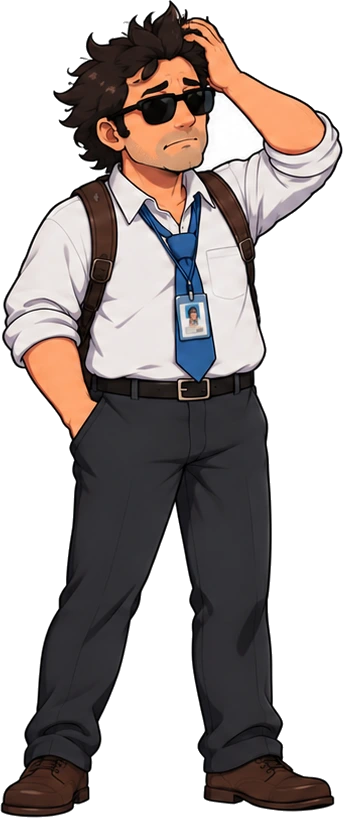
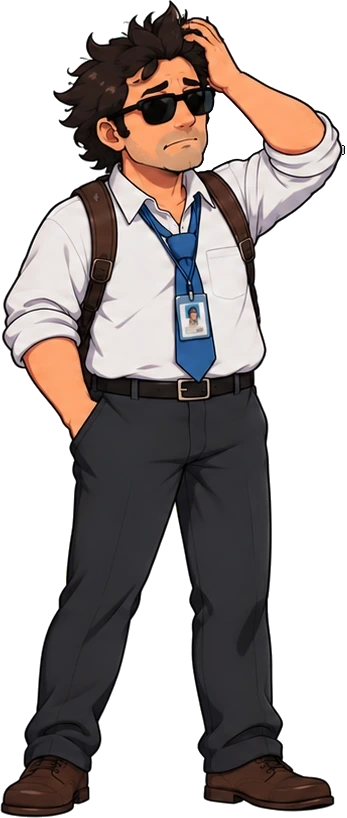
Jefe (rascándose): fuera el fondo blanco bajo el brazo y codo cerrado; volumen del ambiente ajustable (por defecto a la mitad); acotación propia por personaje; v3 con estabilidad 0/0,5/1; Vanesa «exasperated»
Claude-Session: https://claude.ai/code/session_01JMuA9ngbhrTgayxwJt3uwf

diff --git a/src/lib/voice/elevenlabs.ts b/src/lib/voice/elevenlabs.ts
@@ -118,7 +118,7 @@ export async function generateElevenDialogue(
     const inputs = group.map((l) => {
       const c = cast?.[l.characterId];
       if (!c) throw new Error(`Falta la voz ElevenLabs de «${l.characterId}» en el reparto.`);
-      return { text: l.text.trim(), voiceId: c.voiceId };
+      return { text: withTag(l.text.trim(), c), voiceId: c.voiceId };
     });
     const stab = group.reduce((s, l) => s + (cast?.[l.characterId]?.stability ?? 0.5), 0) / group.length;
     const stability = stab < 0.34 ? 0 : stab < 0.67 ? 0.5 : 1; // v3: creativo / natural / robusto
@@ -187,6 +187,13 @@ export function shiftPitch(p: { samples: Float32Array; sampleRate: number }, k: 
   return { samples: out, sampleRate: p.sampleRate };
 }
 
+/** Aplica la acotación propia del personaje (si la tiene) en lugar de la automática del principio de la frase. */
+export function withTag(text: string, c?: { tag?: string }): string {
+  const t = c?.tag?.trim().replace(/[[\]]/g, "");
+  if (!t) return text;
+  return `[${t}] ${text.replace(/^\s*\[[^\]]*\]\s*/, "")}`;
+}
+
 function toClip(p: { samples: Float32Array; sampleRate: number }): Clip {
   const samples = masterVoice(p.samples, p.sampleRate);
   return { samples, sampleRate: p.sampleRate, env: envelope(samples, p.sampleRate), duration: samples.length / p.sampleRate };
@@ -213,7 +220,7 @@ export async function generateElevenLines(
     const model = c.model ?? (globalModel === "dialogue_v3" ? "eleven_v3" : globalModel);
     const ctx: { previousText?: string; nextText?: string } =
       model === "eleven_v3" ? {} : { previousText: prevL ? stripAudioTags(prevL).slice(0, 400) : undefined, nextText: nextL ? stripAudioTags(nextL).slice(0, 400) : undefined };
-    const text = model === "eleven_v3" ? l.text.trim() : stripAudioTags(l.text);
+    const text = model === "eleven_v3" ? withTag(l.text.trim(), c) : stripAudioTags(l.text);
     const speed = Math.min(1.2, Math.max(0.7, c.speed * (l.rate ?? 1)));
     const ck = `el3|${model}|${c.voiceId}|${c.stability}|${c.similarity}|${c.style}|${speed.toFixed(2)}|${text}|${ctx.previousText ?? ""}|${ctx.nextText ?? ""}`;
     let hit = await clipCache.get(ck).catch(() => undefined);

diff --git a/src/components/screens/PreviewScreen.tsx b/src/components/screens/PreviewScreen.tsx
@@ -1,5 +1,6 @@
 "use client";
 
+import { ambientVolume } from "@/lib/sfx/player";
 import { useEffect, useMemo, useState } from "react";
 import { evaluateTake, projectSchedule } from "@/lib/timeline/evaluate";
 import { ttsSupported } from "@/lib/tts";
@@ -17,7 +18,7 @@ import { Stage } from "../Stage";
 import { usePlayer, type VoiceEngine } from "../usePlayer";
 import type { PocketState } from "../usePocket";
 import { VoiceCast } from "../VoiceCast";
-import { Card, IssueList } from "../ui";
+import { Card, Field, IssueList } from "../ui";
 
 const fmt = (t: number) => `${Math.floor(t / 60)}:${(t % 60).toFixed(1).padStart(4, "0")}`;
 const ENGINE_KEY = "pocket:voiceEngine";
@@ -304,6 +305,7 @@ export function PreviewScreen({ s }: { s: PocketState }) {
       {engine === "piper" && <VoiceCast s={s} />}
       {engine === "elevenlabs" && <ElevenCast s={s} model={model} onModel={setModel} code={code} onCode={setCode} lines={lines} />}
       {engine === "elevenlabs" && code && <VoiceCasting s={s} code={code} />}
+      <AmbientVolume />
       <Card title="Configuración de voces de esta escena">
         <p className="fine">Copia la configuración tal y como suena ahora (voces, ajustes de cada personaje, motor y modelo) para pasársela a Claude o pegarla en otro dispositivo.</p>
         <div className="row">
@@ -315,5 +317,17 @@ export function PreviewScreen({ s }: { s: PocketState }) {
         ✎ Editar este sketch
       </button>
     </div>
+  );
+}
+
+/** Volumen del ruido de fondo (oficina, recepción…), guardado en este dispositivo. */
+function AmbientVolume() {
+  const [v, setV] = useState(() => ambientVolume.get());
+  return (
+    <Card title="Ruido de fondo">
+      <Field label={`Volumen del ambiente: ${Math.round(v * 100)} %`} hint="0 % = sin ambiente. Se aplica al reproducir y al exportar el vídeo.">
+        <input type="range" min={0} max={1.5} step={0.05} value={v} onChange={(e) => { const x = Number(e.target.value); setV(x); ambientVolume.set(x); }} />
+      </Field>
+    </Card>
   );
 }

diff --git a/src/components/ElevenCast.tsx b/src/components/ElevenCast.tsx
@@ -157,7 +157,7 @@ export function ElevenCast({ s, model, onModel, code, onCode, lines = [] }: Prop
               {c && model === "dialogue_v3" && <p className="fine">⚠ En modo conversación ElevenLabs solo usa la voz y la estabilidad: el estilo, el parecido, la velocidad y el modelo de cada personaje se ignoran. Para que se respeten, elige «frase a frase» arriba.</p>}
               {c && (
                 <div className="grid2">
-                  <Field label="Estabilidad" hint="baja = más expresiva">
+                  <Field label="Estabilidad" hint="En v3 solo cuenta 0 (creativa, la más exagerada), 0,5 (natural) o 1 (estable).">
                     <Stepper value={c.stability} step={0.05} min={0} max={1} onChange={(x) => set(cid, { stability: x })} />
                   </Field>
                   <Field label="Estilo / exageración">
@@ -180,6 +180,11 @@ export function ElevenCast({ s, model, onModel, code, onCode, lines = [] }: Prop
                     </select>
                   </Field>
                 </div>
+              )}
+              {c && (
+                <Field label="Acotación (solo v3)" hint="Cómo dice TODAS sus frases, en inglés: furious, exasperated, sarcastic, whispering, shouting, overly dramatic… Vacío = la automática.">
+                  <input value={c.tag ?? ""} maxLength={60} placeholder="automática" onChange={(e) => set(cid, { tag: e.target.value || undefined })} />
+                </Field>
               )}
               {c && <TryLine cid={cid} entry={c} model={model} code={code} lines={lines.filter((l) => l.characterId === cid)} />}
             </div>

diff --git a/src/lib/sfx/player.ts b/src/lib/sfx/player.ts
@@ -6,6 +6,27 @@ import { envelope, normalizeLevel } from "@/lib/voice/dsp";
 import { audioContext, playClip, type Clip } from "@/lib/voice/piper";
 import { SR, synthSamples } from "./synth";
 
+/** Volumen del ambiente de fondo (bucles «sfx_ambiente_*»), ajustable en Ver; 1 = el del guion. */
+const AMB_KEY = "pocket:ambientVolume";
+export const ambientVolume = {
+  get(): number {
+    try {
+      const v = Number(localStorage.getItem(AMB_KEY));
+      return Number.isFinite(v) && localStorage.getItem(AMB_KEY) !== null ? Math.min(2, Math.max(0, v)) : 0.5;
+    } catch {
+      return 0.5;
+    }
+  },
+  set(v: number) {
+    try {
+      localStorage.setItem(AMB_KEY, String(v));
+    } catch {
+      /* sin almacenamiento */
+    }
+  },
+};
+export const mixVolume = (soundId: string, volume = 1) => (soundId.startsWith("sfx_ambiente") ? volume * ambientVolume.get() : volume);
+
 const cache = new Map<string, Promise<Clip | null>>();
 
 async function load(src: string): Promise<Clip | null> {

diff --git a/src/lib/server/elevenlabs.ts b/src/lib/server/elevenlabs.ts
@@ -144,7 +144,8 @@ export async function handleTts(body: unknown, ip: string, code: string | null, 
         language_code: model === "eleven_v3" ? undefined : "es",
         previous_text: model === "eleven_v3" ? undefined : previousText,
         next_text: model === "eleven_v3" ? undefined : nextText,
-        voice_settings: { stability: settings.stability, similarity_boost: settings.similarity, style: settings.style, use_speaker_boost: true, speed: settings.speed },
+        // v3 solo admite 0 (creativa), 0,5 (natural) y 1 (robusta)
+        voice_settings: { stability: model === "eleven_v3" ? (settings.stability < 0.25 ? 0 : settings.stability < 0.75 ? 0.5 : 1) : settings.stability, similarity_boost: settings.similarity, style: settings.style, use_speaker_boost: true, speed: settings.speed },
         // semilla fija por frase: la misma frase suena igual en cualquier dispositivo
         seed: seedOf(`${voiceId}|${model}|${text}`),
       }),

diff --git a/src/components/usePlayer.ts b/src/components/usePlayer.ts
@@ -10,7 +10,7 @@ import { speak, stopSpeaking } from "@/lib/tts";
 import { levelAt } from "@/lib/voice/dsp";
 import { clipKey } from "@/lib/voice/fit";
 import { playClip, stopAllClips, type Clip } from "@/lib/voice/piper";
-import { playSound, preloadSounds } from "@/lib/sfx/player";
+import { mixVolume, playSound, preloadSounds } from "@/lib/sfx/player";
 import { preloadProject } from "@/lib/renderer/preload";
 
 export type VoiceEngine = "elevenlabs" | "piper" | "browser" | "off";
@@ -56,7 +56,7 @@ export function usePlayer(project: PocketProject, catalog: Catalog, opts: { engi
         });
       },
       onSfx: (e) => {
-        void playSound(catalogRef.current, e.soundId, e.volume ?? 1, e.duration);
+        void playSound(catalogRef.current, e.soundId, mixVolume(e.soundId, e.volume ?? 1), e.duration);
       },
       onInterrupt: () => {
         stopSpeaking();

diff --git a/src/lib/export/mp4.ts b/src/lib/export/mp4.ts
@@ -12,7 +12,7 @@ import { projectImageUrls } from "@/lib/renderer/preload";
 import { encodeWav, levelAt } from "@/lib/voice/dsp";
 import { clipKey } from "@/lib/voice/fit";
 import type { Clip } from "@/lib/voice/piper";
-import { soundClip } from "@/lib/sfx/player";
+import { mixVolume, soundClip } from "@/lib/sfx/player";
 import { drawFrame, H, W, type ImageMap } from "./draw";
 
 export interface ExportProgress {
@@ -77,7 +77,7 @@ async function mixAudio(project: PocketProject, catalog: Catalog, clips: Map<str
         if (c) add(c, s.offset + e.start);
       } else if (e.track === "sfx") {
         const c = await soundClip(catalog, e.soundId);
-        if (c) add(c, s.offset + e.start, e.volume ?? 1, e.duration);
+        if (c) add(c, s.offset + e.start, mixVolume(e.soundId, e.volume ?? 1), e.duration);
       }
     }
   }

diff --git a/src/lib/script/compile.ts b/src/lib/script/compile.ts
@@ -115,7 +115,7 @@ export function actingTag(who: string | undefined, text: string, gesture?: strin
   else if (who === "anastasia") tag = /enamorada|suspira|corazon|coqueta|timida|guino/.test(g) ? "lovingly" : /enfado|mosqueo|acusa|celosa/.test(g) ? "annoyed" : "sarcastically";
   else if (who === "fake") tag = /huevo|panico|garras|acurrucado|huye|para|grita/.test(g) ? "terrified" : "nervously";
   else if (who === "alf") tag = /garra|malva|trama|acecha|grita/.test(g) ? "menacing" : "sweetly";
-  else if (who === "vanesa") tag = /reynaldo|reycito/i.test(text) ? "sweetly" : "annoyed, quietly";
+  else if (who === "vanesa") tag = /reynaldo|reycito/i.test(text) ? "sweetly" : "exasperated";
   return tag ? `[${tag}] ${text}` : text;
 }
 

diff --git a/src/lib/schema/pocket.ts b/src/lib/schema/pocket.ts
@@ -246,6 +246,8 @@ export const ElevenCast = z.object({
   pitch: z.number().min(0.8).max(1.3).optional(),
   /** Modelo propio de este personaje (p. ej. v3 para un tono más exagerado con acotaciones). */
   model: z.enum(["eleven_multilingual_v2", "eleven_v3", "eleven_flash_v2_5"]).optional(),
+  /** Acotación propia (v3), p. ej. «furious» o «sarcastic, exaggerated»: sustituye a la automática en sus frases. */
+  tag: z.string().max(60).optional(),
 });
 
 export const PocketProject = z.object({
